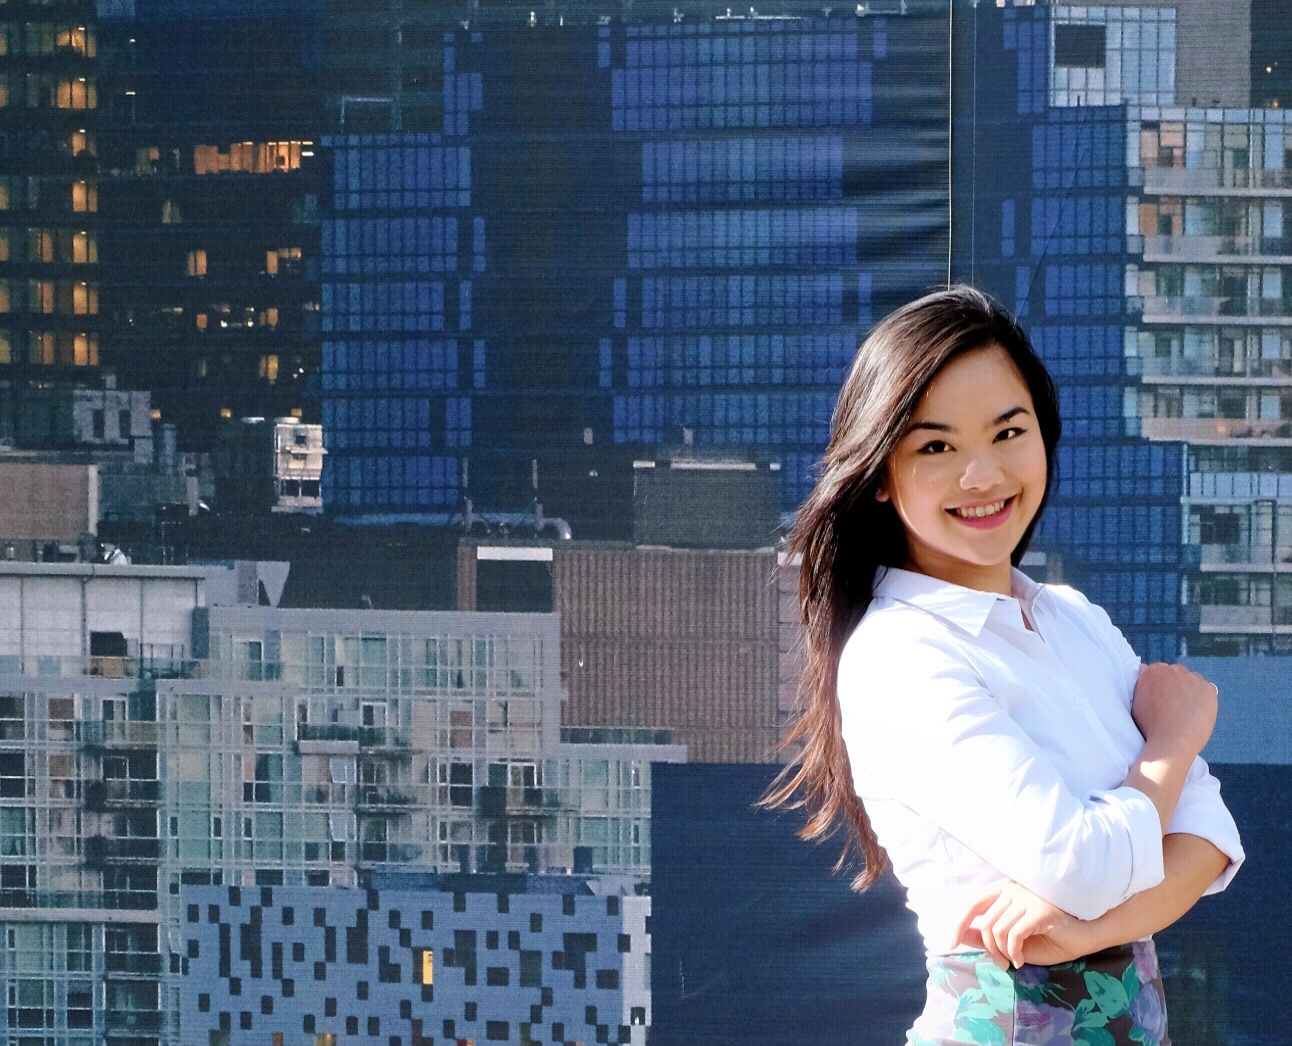
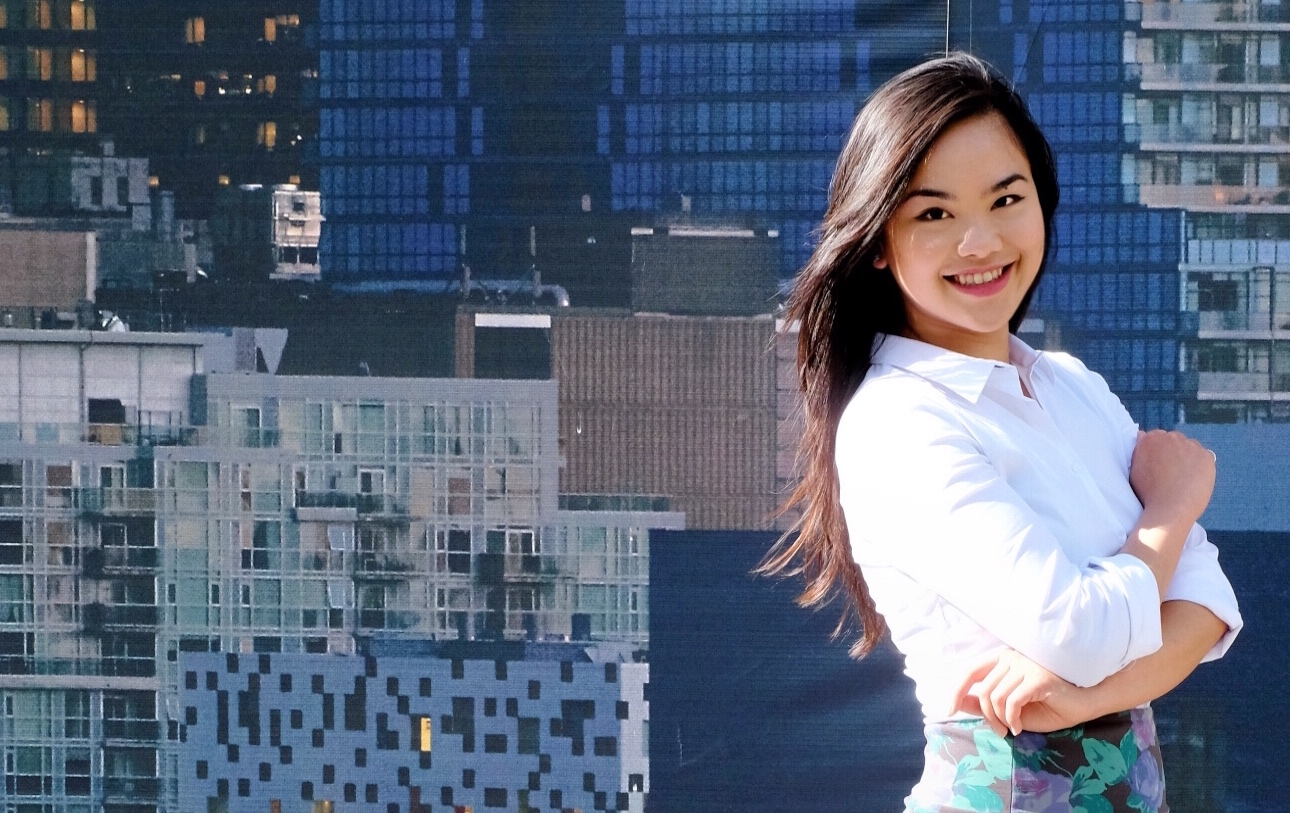
parallax cover

diff --git a/index.html b/index.html
@@ -18,18 +18,6 @@
     <title>Hello, world!</title>
   </head>
   <body>
-    <div id="cover" class="container-fluid">
-      <div class="center row">
-        <div class="col-md-12" id="cover-header">
-          <h2>Product Manager</h2>
-          <h1>Judy Lei</h1>
-
-          <a href="mailto:someone@example.com" class="btn contact">Contact Me</a>
-        </div>
-      </div>
-    </div>
-
-
     <div class="container">
 <!--       <div class="row" id="header">
         <div class="col-md-8">
@@ -40,6 +28,24 @@
         </div>
         <div class="col-md-4">
           <img src="images/photo.JPG" class="profile_picture">
+        </div>
+      </div> -->
+
+      <div class="row" id="cover-parallax">
+        <div class="parallax col-sm-12">
+          <h2>Product Manager</h2>
+          <h1>Judy Lei</h1>
+
+          <a href="mailto:someone@example.com" class="btn contact">Contact Me</a>
+        </div>
+      </div>
+
+<!--       <div class="row" id="cover">
+        <div class="col-sm-12" id="cover-header">
+          <h2>Product Manager</h2>
+          <h1>Judy Lei</h1>
+
+          <a href="mailto:someone@example.com" class="btn contact">Contact Me</a>
         </div>
       </div> -->
 

diff --git a/style.css b/style.css
@@ -1,3 +1,7 @@
+body,
+html {
+  height: 100%;
+}
 body {
   /*font-family: 'Montserrat', sans-serif;*/
 
@@ -59,6 +63,47 @@ body #footer h1 {
 body #cover-header {
   margin-top: 100px;
   margin-left: 100px;
+}
+body .parallax {
+  text-transform: uppercase;
+  padding: 100px;
+  /* The image used */
+
+  background-image: url('images/cover copy.jpg');
+  height: 400px;
+  width: 100%;
+  /* Create the parallax scrolling effect */
+
+  background-attachment: fixed;
+  background-position: center;
+  background-repeat: no-repeat;
+  background-size: cover;
+}
+body .parallax h1,
+body .parallax h2 {
+  color: #ffffff;
+}
+body .parallax h1 {
+  font-size: 5em;
+  letter-spacing: 3px;
+  text-shadow: 2px 2px #3d5a80;
+}
+body .parallax h2 {
+  font-size: 1em;
+  letter-spacing: 3px;
+}
+body .parallax .contact {
+  font-family: 'Montserrat', sans-serif;
+  text-transform: uppercase;
+  background-color: transparent;
+  font-size: 1em;
+  border: 1px solid #ffffff;
+  color: #ffffff;
+  padding: 10px 20px;
+}
+body .parallax .contact:hover {
+  background-color: #ffffff;
+  color: #000000;
 }
 body #cover {
   height: 400px;

diff --git a/style.less b/style.less
@@ -4,6 +4,10 @@
 @white: #ffffff;
 @black: #000000;
 
+body, html {
+    height: 100%;
+}
+
 body {
 	/*font-family: 'Montserrat', sans-serif;*/
 	font-family: 'EB Garamond', serif;
@@ -68,6 +72,50 @@ body {
 	#cover-header {
 		margin-top: 100px;
 		margin-left: 100px;
+	}
+
+	.parallax {
+		text-transform: uppercase;
+		padding: 100px;
+		
+		/* The image used */
+		background-image: url('images/cover copy.jpg');
+
+		height: 400px;
+		width: 100%;
+
+		/* Create the parallax scrolling effect */
+		background-attachment: fixed;
+		background-position: center;
+		background-repeat: no-repeat;
+		background-size: cover;
+
+		h1, h2 {
+			color: @white;
+		}
+		h1 {
+			font-size: 5em;
+			letter-spacing: 3px;
+			text-shadow: 2px 2px @purplenavy;
+		}
+		h2 {
+			font-size: 1em;
+			letter-spacing: 3px;
+		}
+
+		.contact {
+			font-family: 'Montserrat', sans-serif;
+			text-transform: uppercase;
+			background-color: transparent;
+			font-size: 1em;
+			border: 1px solid @white;
+			color: @white;
+			padding: 10px 20px;
+			&:hover {
+				background-color: @white;
+				color: @black;
+			}
+		}
 	}
 
 	#cover {
